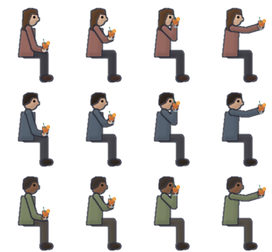
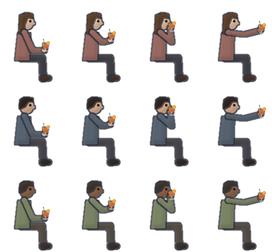
Padova: al bar si sta seduti sulle sedie, di notte meno passanti e vetri accesi al posto giusto
- Il bar è a terra come panchine e passanti (y 414) e chi beve si siede sulla
  sedia del tavolino, disegnata prima di lui.
- Di notte passa meno gente: a mezzanotte uno su cinque, deciso quando il
  passante è fuori dall'inquadratura.
- I vetri accesi degli strati usano la grandezza vera dello strato: sugli
  schermi piccoli finivano spostati, per esempio sulla Loggia Amulea.

Claude-Session: https://claude.ai/code/session_01Bf1d2rFJnp9n4pFf7DSqn4

diff --git a/src/shared/stages.ts b/src/shared/stages.ts
@@ -654,7 +654,7 @@ export const STAGES: Record<string, StageSpec> = {
         traffic: { y: 406, parallax: 0.5, everyMs: 2600, kinds: ["auto", "auto", "auto", "vespa", "vespa", "furgone", "bici", "bus"] },
         flyers: { y: 90, parallax: 0.6, count: 7 }, // rondini sul Prato, di notte i pipistrelli
         planes: { y: -60, everyMs: 75000 },
-        bar: { x: 120, y: 408, parallax: 0.8, tables: 3, spacing: 72 }, // il chiosco dello spritz sul prato
+        bar: { x: 120, y: 414, parallax: 0.8, tables: 3, spacing: 72 }, // il chiosco dello spritz sul prato: a terra come panchine e passanti (#378)
         daycycle: {
           cycleMs: 240000, // un giorno intero in 4 minuti: alba, giorno, tramonto e notte
           startAt: 0.8, // si parte poco dopo l'alba

diff --git a/tools/arene/vita.py b/tools/arene/vita.py
@@ -448,10 +448,10 @@ def seated(outfit, pose, hair):
     q = Quadro(34, 42)
     jacket, pants, shoes, skin, hair_col = outfit
     base, x = 40, 13
-    seat = (x, base - 13)
-    sh = (x + 1, base - 26)
-    _part(q, [seat, (x + 9, base - 13), (x + 9, base - 1)], pants, width=3.2)  # coscia e gamba davanti
-    _part(q, q.ellipse(q.mask(), x + 8, base - 2.2, x + 13, base + 0.4), shoes)
+    seat = (x - 2, base - 11)  # appoggiato sulla sedia del tavolino (seduta a base - 10, #378)
+    sh = (x - 1, base - 24)
+    _part(q, [seat, (x + 8, base - 11), (x + 8.5, base - 1)], pants, width=3.2)  # coscia e gamba davanti
+    _part(q, q.ellipse(q.mask(), x + 7.5, base - 2.2, x + 12.5, base + 0.4), shoes)
     _part(q, [(sh[0] - 3, sh[1]), (sh[0] + 3, sh[1] + 0.5), (seat[0] + 3.5, seat[1] + 1), (seat[0] - 3.5, seat[1] + 1)], jacket)
     head = (sh[0] + 1.5, sh[1] - 5)
     q.fill(q.smooth(q.stroke(q.mask(), [sh, head], 2.2), 0.3), skin)
@@ -463,8 +463,8 @@ def seated(outfit, pose, hair):
         _part(q, [(head[0] - 4, head[1] + 5.6), (head[0] - 3.7, head[1] - 3.2), (head[0] - 0.5, head[1] - 4.6), (head[0] + 2.7, head[1] - 3.9), (head[0] + 3.2, head[1] - 1.8), (head[0] + 0.2, head[1] - 2.6), (head[0] - 1.4, head[1] + 1), (head[0] - 1.6, head[1] + 6)], hair_col, ink=0.4)
     else:
         _part(q, [(head[0] - 3.6, head[1] + 1.4), (head[0] - 3.5, head[1] - 3), (head[0] - 0.9, head[1] - 4.5), (head[0] + 2.5, head[1] - 3.9), (head[0] + 3.2, head[1] - 2.1), (head[0] + 0.4, head[1] - 2.4), (head[0] - 1.1, head[1] + 0.2)], hair_col, ink=0.4)
-    hands = [(x + 9, base - 15), (x + 8, base - 21), (head[0] + 3.5, head[1] + 3), (x + 15, base - 27)]
-    elbows = [(x + 4, base - 16), (x + 5, base - 20), (x + 6, base - 21), (x + 8, base - 25)]
+    hands = [(x + 9, base - 15), (x + 8, base - 20), (head[0] + 3.5, head[1] + 3), (x + 15, base - 25)]
+    elbows = [(x + 3, base - 15), (x + 4, base - 19), (x + 5, base - 19), (x + 7, base - 23)]
     hand, elbow = hands[pose], elbows[pose]
     _part(q, [sh, elbow, hand], jacket, width=2.6)
     _part(q, q.ellipse(q.mask(), hand[0] - 1.2, hand[1] - 1.2, hand[0] + 1.2, hand[1] + 1.2), skin, ink=0.3)
